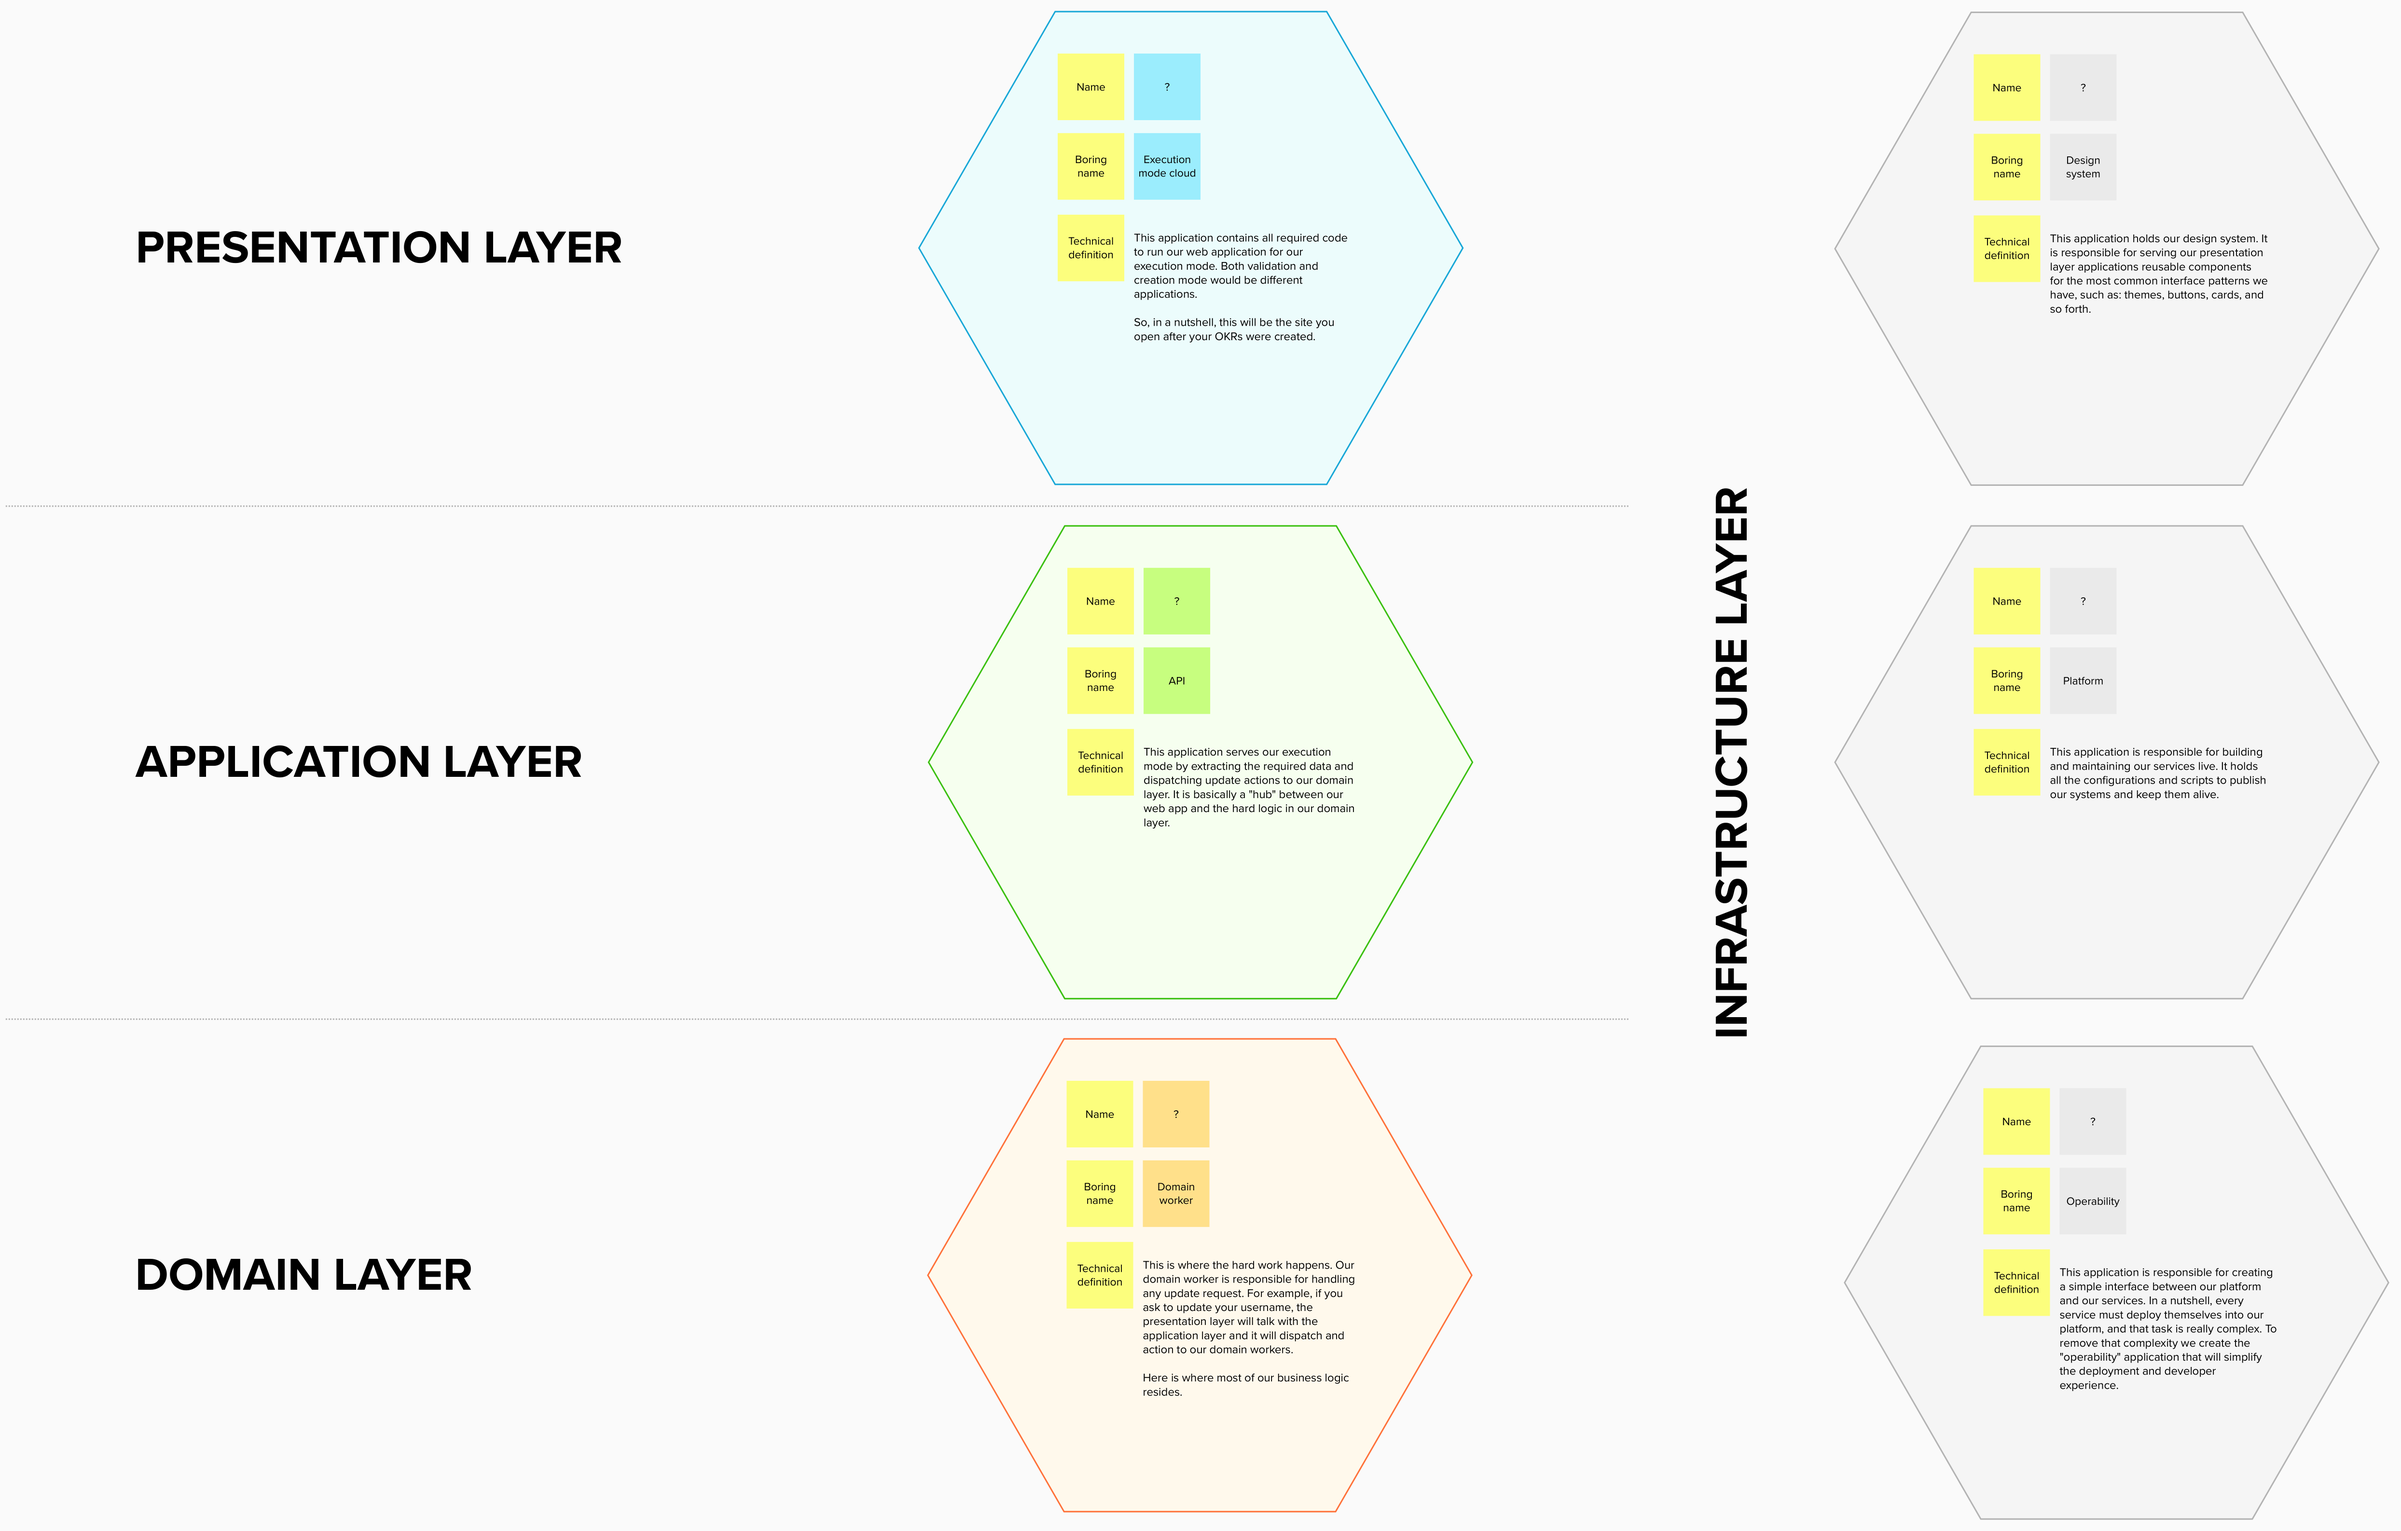
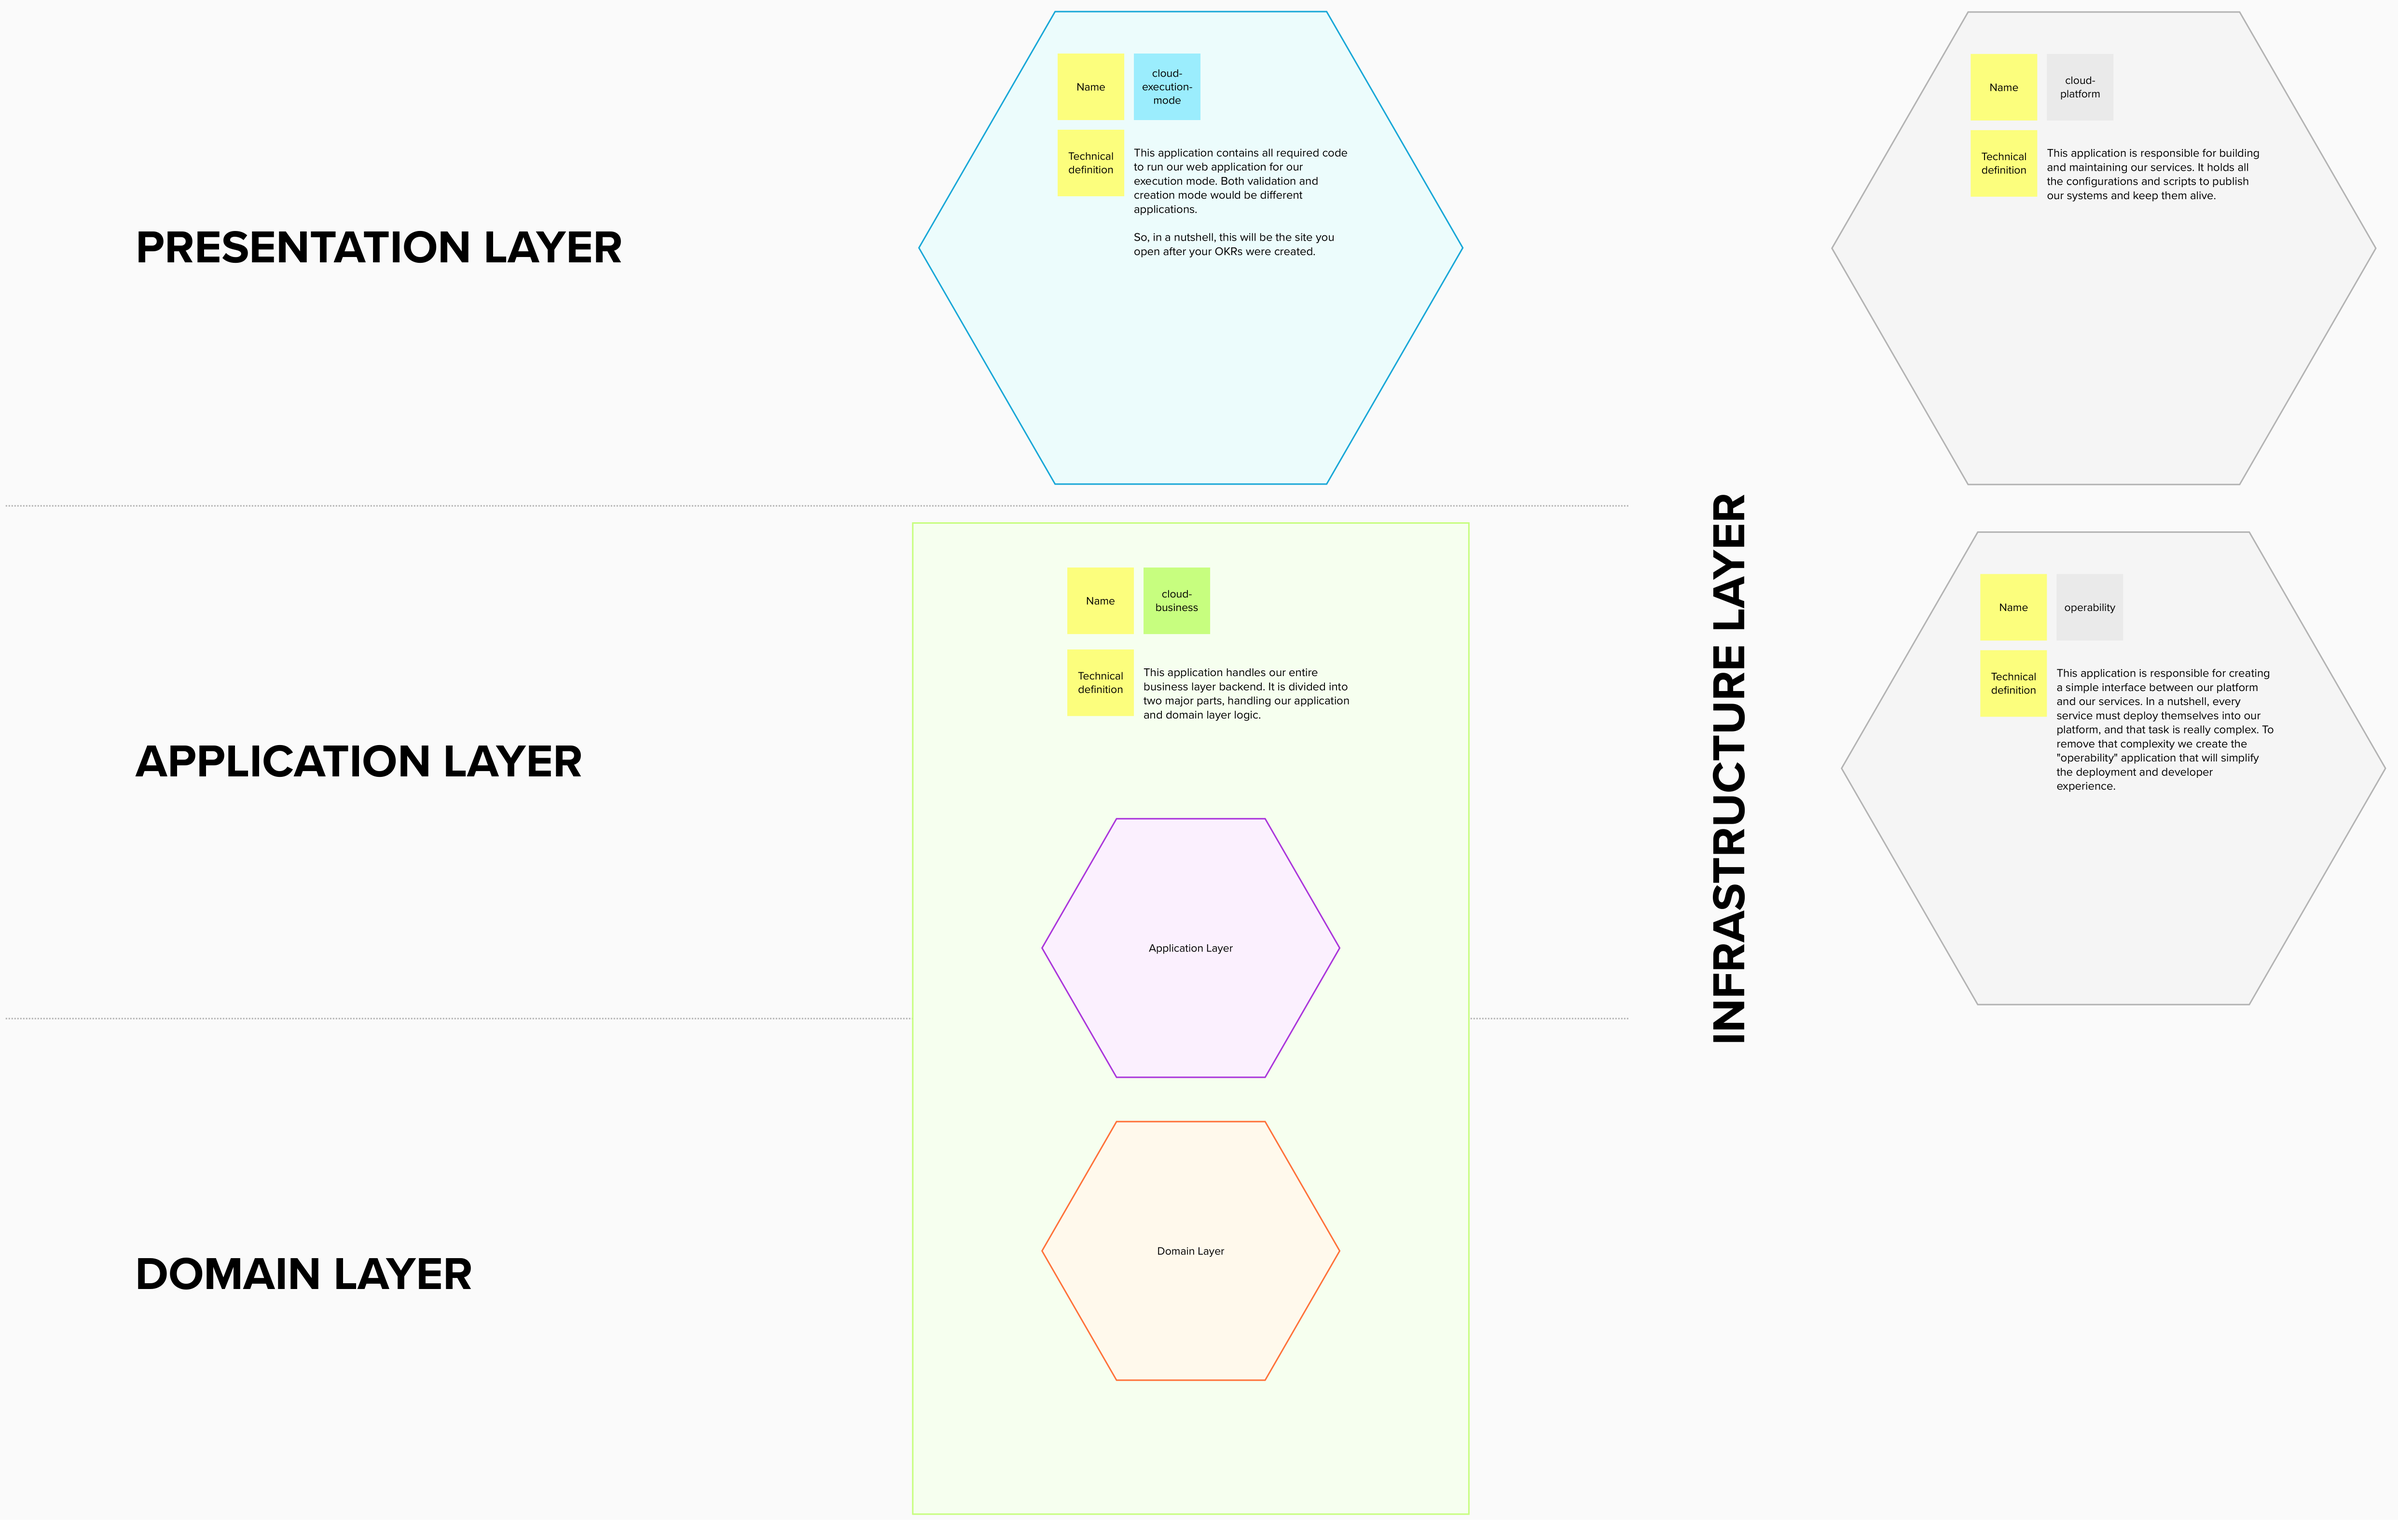
Business: Reducing Technical Complexity (#19)
* docs(business): adds reducing complexity ADR

* docs(adl): updates both CQRS and microservices ADR

* docs(tdd): rejects ADR

* docs(patterns): rejects BDD ADR

* docs(patterns): changes our stack ADR

diff --git a/records/business/001-reducing-initial-technical-complexity.md b/records/business/001-reducing-initial-technical-complexity.md
@@ -1,0 +1,52 @@
+# ADR 1: Reducing Initil Technical Complexity
+
+* [Table of contents](#)
+  * [Context](#context)
+  * [Decision](#decision)
+  * [Status](#status)
+  * [Consequences](#consequences)
+
+## Context
+
+While coding our design-system, our team understood that our technical complexity was too high. Right now, we still don't know precisely what our product is, and we need to receive inputs from our customers as fast as possible. Still, the decisions made until today (2020-10-26 - latest PR [#18](https://github.com/budproj/architecture-decision-log/pull/18)) created a massive technical complexity that is slowing down our development pace.
+
+We need to reconsider some decisions and reduce our technical complexity, to allow a full delivery until the ender of 2020 Q4.
+
+## Decision
+
+Taking a look at our decisions and considering what we've developed so far (mainly our design system), the major offenders are:
+
+* **Decoupled design system:** Since we have a single presentation application, there is no reason to code a stable and robust design system.
+* **Using ThemeUI:** A more opinionated framework would provide more tools to reduce our time coding simple components.
+* **Decoupled Application and Domain layers:** Since we don't have any users, scalability and reliability are not our primary concerns.
+* **CQRS+ES:** Although relevant, this structure adds enormous complexity to our back-end, increasing the required time to develop our systems.
+* **Test and behavior-driven development:** Unit and acceptance tests are essential tools to reduce side-effects while refactoring or coding new features. But, they increase the development time and can slow our pace.
+* **Stack:** Some tools that we've decided to use are new for our team. We must reduce our learning curve by using familiar and straightforward languages and frameworks.
+
+Based on those offenders, here is a list of actions that we're going to take to reduce our technical complexity:
+
+1. We're going to reject [patterns/ADR#005](../patterns/005-cqrs%2Bes.md). Our first version will **not** be event-sourced, but we can add it in future releases.
+2. We're going to submit an update in [microservices/ADR#001](../microservices/001-overview.md) to merge our application and domain applications layers into a **business** application that crosses both layers. That is not optimal and will create legacy code in the future, but will increase our development speed considerably.
+3. We're going to remove our design-system application in [microservices/ADR#001](../microservices/001-overview.md) and archive the [design-system repository](https://github.com/budproj/design-system) until further notice. Our first release will have only a single presentation application, so there is no sense in having a robust and complex design-system.
+4. We're going to deprecate [the entire design-system ADL](https://github.com/delucca/design-system/tree/feature/design-system-structure/docs/adl). Since we're not using a design-system anymore, there is no sense in maintaining them.
+5. We're going to move from ThemeUI to MaterialUI since our team already has good knowledge of it, which can boost our development speed.
+6. We're going to reject both [patterns/ADR#006](../patterns/006-test-driven-development.md) and [patterns/ADR#007](../patterns/007-behavior-driven-development.md). TDD and BDD are great, and we're going to use them shortly, but they would add little benefit to our first version.
+7. We're going to submit a change request to [patterns/ADR#11](../patterns/011-stack.md), moving from an optimal stack to a more MVP-like stack.
+
+## Status
+
+Accepted.
+
+## Consequences
+
+Plenty of problems can occur based on this ADR. But, the most relevant one is that we're now creating legacy code for future developers. That is not-optimal, but we must first understand our audience and optimize our code based on our customer needs.
+
+Remembering the engineering complexity formula:
+
+```txt
+Engineering Complexity = Domain Complexity + Technical Complexity + Legacy Complexity
+```
+
+Our first release must focus on our `Domain Complexity`, and not the `Technical Complexity`. So, we're coding modern applications with a good (but not optimal) framework and tools.
+
+As soon as we reach a product-market fit, we suggest refactoring the entire code and architecture. By doing so, we can divide bounded contexts and improve our developer experience.

diff --git a/records/patterns/011-stack.md b/records/patterns/011-stack.md
@@ -5,6 +5,7 @@
   * [Decision](#decision)
   * [Status](#status)
   * [Consequences](#consequences)
+  * [Updates](#updates)
 
 ## Context
 
@@ -21,6 +22,7 @@ Below, I've listed the current stack of our company. We've grouped those into la
 This layer is responsible for presenting interfaces for our customers' interaction. We currently don't have any machine interface, since most of our applications are web or mobile apps.
 
 Based on that, here is the stack definition for our presentation layer:
+
 * **Programming language:** Javascript
 * **Runtime:** NodeJS
 * **Superset:** Typescript
@@ -29,28 +31,20 @@ Based on that, here is the stack definition for our presentation layer:
 * **State management:** Recoil
 * **Design System:** Custom, based in Material-UI
 
-### Application Layer
+### Business Layer (Application + Domain)
 
-This layer is responsible for our API. It controls and orchestrates executions between our presentation layer, external services, and our domain layer. It must be a scalable, lightweight structure since our presentation layer would rely on it for processing.
+This layer merges our Application and Domain layers. It is responsible for our API and domain execution. It controls and orchestrates our presentation layer and external services. It must be a scalable, lightweight structure since our presentation layer would rely on it for processing.
 
 Based on that, here is what we've chosen as our stack:
+
 * **Language:** Rust
 * **Framework:** Rocket
-
-### Domain Layer
-
-This layer answers for every domain execution. It handles complex logic and therefore requires a powerful and fast programming language. Most of our applications here are workers, receiving events. 
-
-Based on those, here are our stack:
-* **Language:** Rust
 
 ### Infrastructure Layer
 
 Although most definitions for this layer resides inside the platform's repositories, some are meaningful enough to mention in this ADR:
 
 * **Relational Database:** PostegreSQL
-* **Timeseries Database:** Timescale
-* **Message Broker:** NATS w/ NATS Jetstream
 
 As I've said before, this stack is flexible, but you should have a good reason to avoid it.
 
@@ -63,3 +57,9 @@ Accepted.
 Defining a solid stack will make hiring and training investments higher. But, with a well-defined stack, the quality of our architecture and code tends to improve, since we can share more knowledge between contexts.
 
 Also, none of the defined patterns are permanent. Anyone can submit a proposal in this ADR and suggest changes to it.
+
+## Updates
+
+### Update 1
+
+After [business/ADR#001](../business/001-reducing-initial-complexity.md), we've decided to change our stack to a more MVP-like structure.

diff --git a/records/patterns/005-cqrs+es.md b/records/patterns/005-cqrs+es.md
@@ -1,4 +1,4 @@
-# ADR 4: CQRS+ES
+# ADR 5: CQRS+ES
 
 * [Table of contents](#)
   * [Context](#context)
@@ -6,6 +6,7 @@
   * [Status](#status)
   * [Consequences](#consequences)
   * [More reading](#more-reading)
+  * [Updates](#updates)
 
 ## Context
 
@@ -36,7 +37,7 @@ The last concept we must cover is the sync between our command and query stacks.
 
 ## Status
 
-Accepted.
+**REJECTED** _check [update 1](#update-1)_
 
 ## Consequences
 
@@ -51,3 +52,9 @@ Also, we must watch out for external sources of mutation. Those could break the 
 ## More reading
 
 * [Martin Fowler's blog post](https://martinfowler.com/articles/201701-event-driven.html)
+
+## Updates
+
+### Update 1
+
+After [business/ADR#001](../business/001-reducing-initial-complexity.md), we've decided that CQRS+ES is way too complicated for our initial release. We plan to add it shortly, but not in our MVP.

diff --git a/records/patterns/006-test-driven-development.md b/records/patterns/006-test-driven-development.md
@@ -6,6 +6,7 @@
   * [Status](#status)
   * [Consequences](#consequences)
   * [More reading](#more-reading)
+  * [Updates](#updates)
 
 ## Context
 
@@ -34,7 +35,7 @@ In this decision, we've decided to use at least some form of testing in all appl
 
 ## Status
 
-Accepted.
+**REJECTED** _check [update 1](#update-1)_
 
 ## Consequences
 
@@ -45,3 +46,9 @@ Test-Driven Development decreases the development speed when a developer is lear
 ## More reading
 
 * [Simple TDD cycle](https://www.devmedia.com.br/test-driven-development-tdd-simples-e-pratico/18533)
+
+## Updates
+
+### Update 1
+
+After [business/ADR#001](../business/001-reducing-initial-complexity.md), we've decided that TDD is way too complicated for our initial release. We plan to add it shortly, but not in our MVP.

diff --git a/records/patterns/007-behavior-driven-development.md b/records/patterns/007-behavior-driven-development.md
@@ -6,6 +6,7 @@
   * [Status](#status)
   * [Consequences](#consequences)
   * [More reading](#more-reading)
+  * [Updates](#updates)
 
 ## Context
 
@@ -29,7 +30,7 @@ BDD is a powerful tool that enhances our TDD cycle.
 
 ## Status
 
-Accepted.
+**REJECTED** _check [update 1](#update-1)_
 
 ## Consequences
 
@@ -42,3 +43,9 @@ Yet, we must train our developers to use BDD, and also, the product team must ke
 ## More reading
 
 * [Behavior-Driven Development @Cucumber](https://cucumber.io/docs/bdd/)
+
+## Updates
+
+### Update 1
+
+After [business/ADR#001](../business/001-reducing-initial-complexity.md), we've decided that TDD is way too complicated for our initial release. We plan to add it shortly, but not in our MVP.

diff --git a/records/microservices/001-overview.md b/records/microservices/001-overview.md
@@ -6,6 +6,7 @@
   * [Status](#status)
   * [Consequences](#consequences)
   * [More reading](#more-reading)
+  * [Updates](#updates)
 
 ## Context
 
@@ -31,3 +32,9 @@ Since we're documenting our microservices infrastructure, we must keep this docu
 ## More reading
 
 * [Live architecture](https://app.mural.co/t/d4c6342/m/d4c6342/1602612797113/5836de51b220fa5ebc8cefd7ad0f161125610524)
+
+## Updates
+
+### Update 1
+
+After [business/ADR#001](../business/001-reducing-initial-complexity.md), we've decided to merge our application and domain app into a single business application and also remove our design-system application from our initial structure. Take a look at that ADR for more context.
